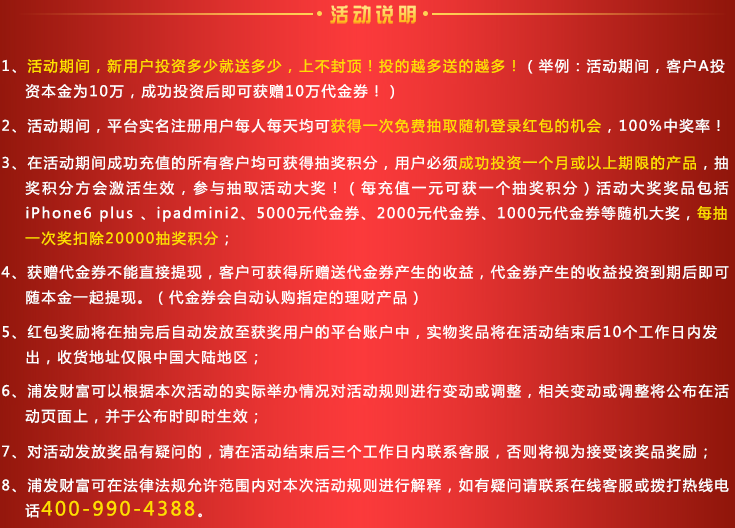
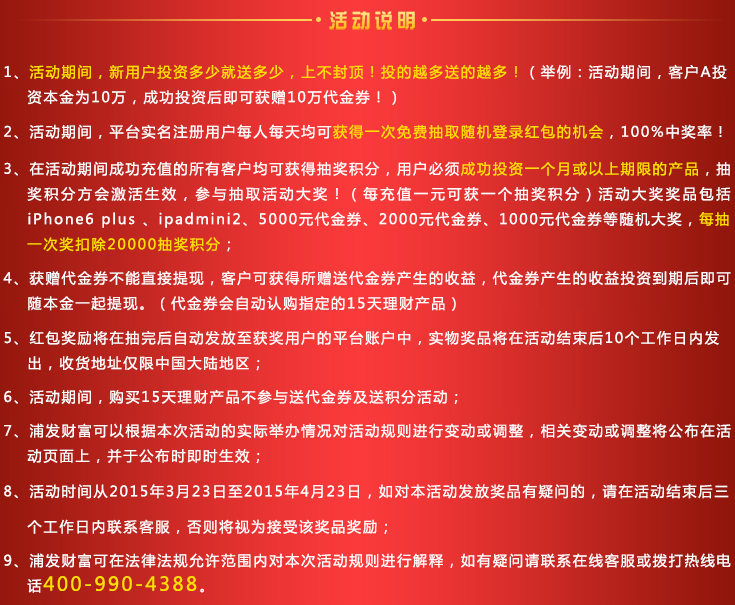
修改活动说明规则

diff --git a/app/Tpl/red/page/choujiang.html b/app/Tpl/red/page/choujiang.html
@@ -109,8 +109,8 @@ var send_span = {function name="app_conf" v="SEND_SPAN"}000;
 </script>
 
 <style>
-.cj { width:100%; height:2376px; margin-top:40px; background:#770d00;}
-	.cj_wraper { width:960px; height:2376px; margin:0 auto; background:url({$TMPL}/images/bg_bg.png) repeat-y;}
+.cj { width:100%; height:2440px; margin-top:40px; background:#770d00;}
+	.cj_wraper { width:960px; height:2440px; margin:0 auto; background:url({$TMPL}/images/bg_bg.png) repeat-y;}
 		
 	.bg_h { width:960px; height:562px; background:url({$TMPL}/images/bg_h.png) no-repeat;}
 	
@@ -144,7 +144,7 @@ var send_span = {function name="app_conf" v="SEND_SPAN"}000;
 			
 			
 	
-	.shuoming { width:735px; height:528px; margin:0 auto; margin-top:30px; background:url({$TMPL}/images/bg_shuoming.png) no-repeat;}
+	.shuoming { width:735px; height:605px; margin:0 auto; margin-top:30px; background:url({$TMPL}/images/bg_shuoming.png) no-repeat;}
 	
 	.black_bg { position: fixed; top: 0; left: 0; width: 100%; height: 100%; z-index: 100000; overflow:hidden; background:rgb( 0, 0, 0); background:rgba( 0, 0, 0, 0.9); filter:alpha(opacity=90); opacity:0.9rt; display:none;}
 		.prize { width:777px; height:866px; margin:0 auto; background:url({$TMPL}/images/dakai.png) no-repeat; opacity:1;}
